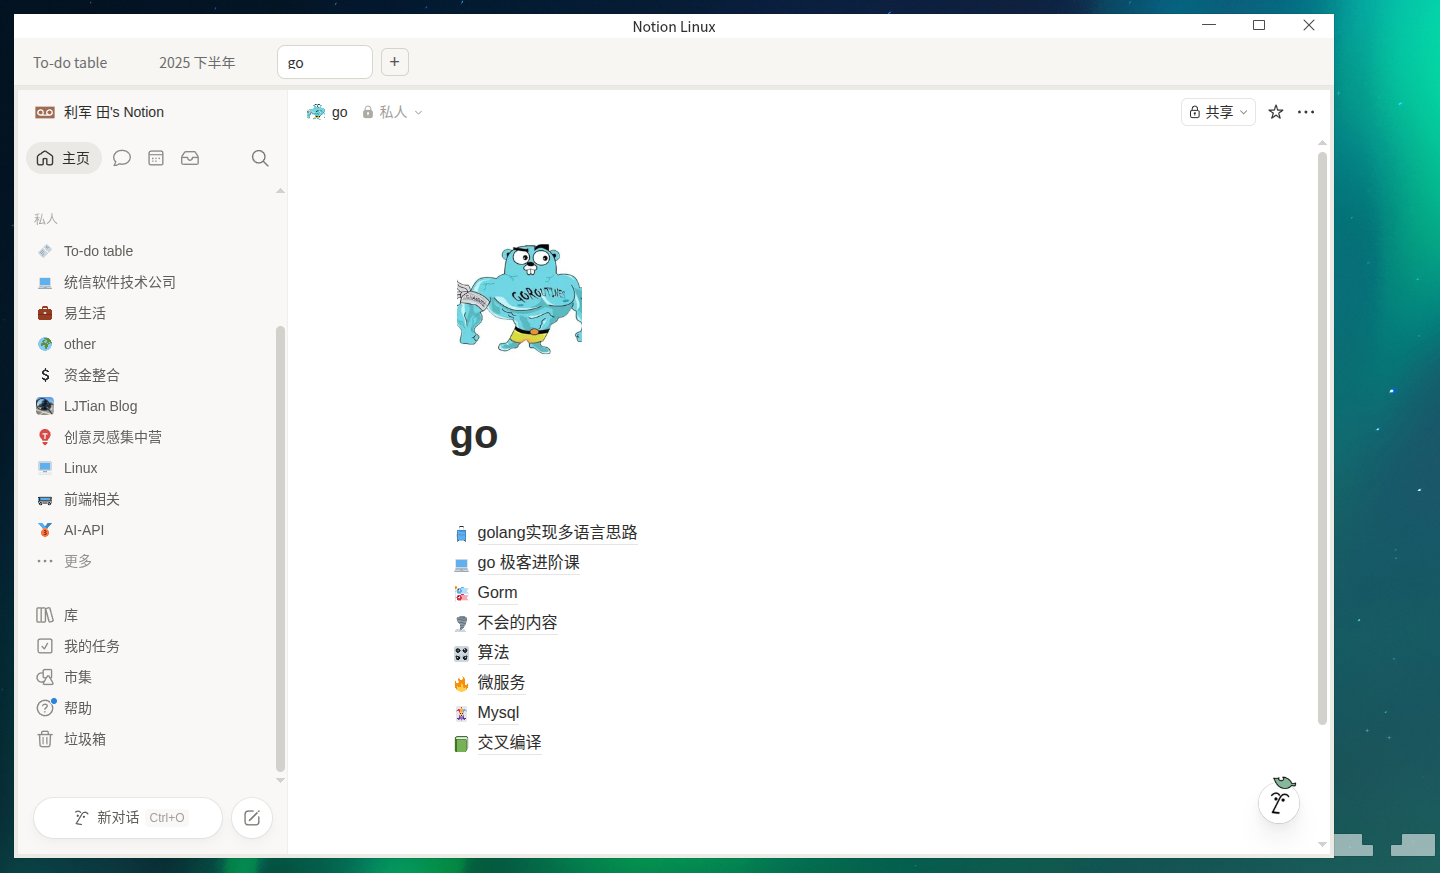
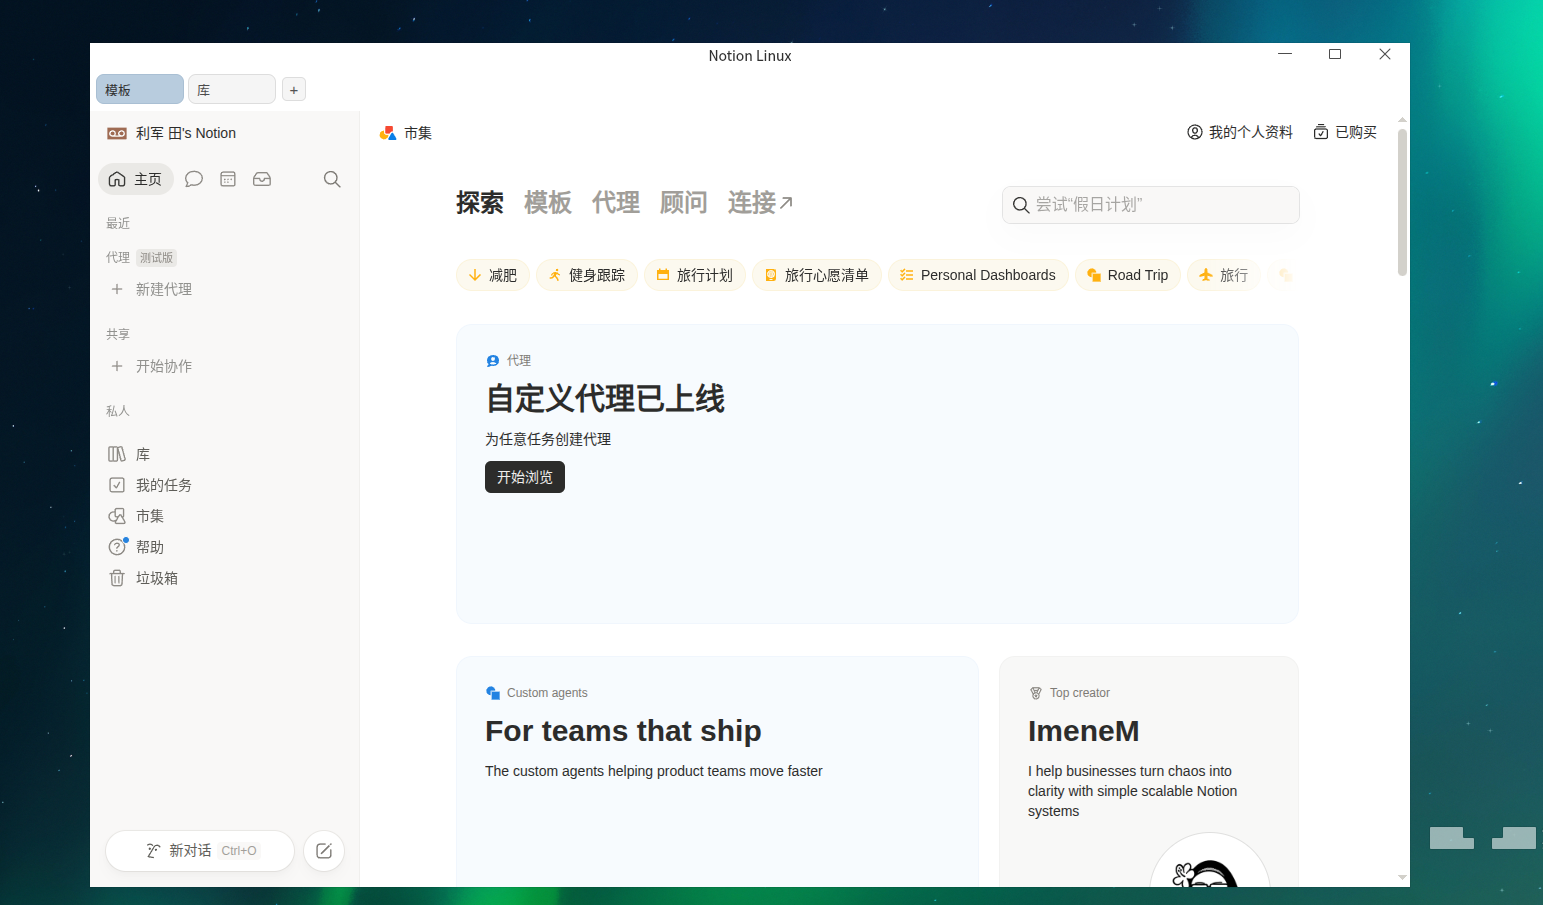
美化了一下，之前太丑了。自己都接受不了

diff --git a/src/renderer/styles.css b/src/renderer/styles.css
@@ -1,12 +1,16 @@
 :root {
-  --bg: #f7f6f3;
-  --line: #e8e6e3;
+  --tabbar-height: 44px;
+  --bg: #ffffff;
+  --line: transparent;
   --text: #2f2f2f;
-  --muted: #6b6b6b;
-  --hover: #efede9;
-  --active-border: #d9d5cf;
-  --content-padding: 4px;
-  --content-radius: 8px;
+  --muted: #4c4c4c;
+  --hover: #efefef;
+  --tab-bg: #f5f5f5;
+  --tab-border: #dddddd;
+  --active-bg: #b8ccde;
+  --active-border: #a9bfd3;
+  --content-padding: 0px;
+  --content-radius: 0px;
 }
 
 * {
@@ -23,20 +27,20 @@ body {
 }
 
 .tabbar {
-  height: 48px;
+  height: var(--tabbar-height);
   display: flex;
   align-items: center;
   background: var(--bg);
-  border-bottom: 1px solid var(--line);
-  padding: 0 8px;
-  gap: 8px;
+  border-bottom: 0;
+  padding: 0 6px;
+  gap: 6px;
   -webkit-app-region: drag;
 }
 
 .tabs {
   display: flex;
   align-items: center;
-  gap: 6px;
+  gap: 4px;
   min-width: 0;
   flex: 0 1 auto;
   overflow: hidden;
@@ -48,28 +52,29 @@ body {
 }
 
 .tab {
-  min-width: 96px;
-  max-width: 160px;
-  height: 34px;
+  min-width: 88px;
+  max-width: 140px;
+  height: 30px;
   display: inline-flex;
   align-items: center;
-  gap: 8px;
-  padding: 0 10px;
+  gap: 6px;
+  padding: 0 8px;
   border-radius: 8px;
-  border: 1px solid transparent;
+  border: 1px solid var(--tab-border);
   color: var(--muted);
-  background: transparent;
+  background: var(--tab-bg);
   cursor: pointer;
   -webkit-app-region: no-drag;
 }
 
 .tab:hover {
   background: var(--hover);
+  border-color: #d4d4d4;
 }
 
 .tab.active {
   color: var(--text);
-  background: #fff;
+  background: var(--active-bg);
   border-color: var(--active-border);
 }
 
@@ -79,13 +84,14 @@ body {
   white-space: nowrap;
   overflow: hidden;
   text-overflow: ellipsis;
-  font-size: 14px;
+  font-size: 13px;
+  font-weight: 500;
   line-height: 1;
 }
 
 .tab-close {
-  width: 16px;
-  height: 16px;
+  width: 14px;
+  height: 14px;
   border: 0;
   border-radius: 50%;
   background: transparent;
@@ -95,7 +101,7 @@ body {
   justify-content: center;
   padding: 0;
   line-height: 1;
-  font-size: 12px;
+  font-size: 11px;
   cursor: pointer;
   opacity: 0;
   visibility: hidden;
@@ -109,36 +115,40 @@ body {
 
 .tab:hover .tab-close,
 .tab.active:hover .tab-close {
-  background: #f0efec;
+  background: #e9e9e9;
 }
 
 .new-tab {
-  width: 28px;
-  height: 28px;
-  border: 1px solid #d7d3cc;
-  border-radius: 6px;
-  background: transparent;
+  width: 24px;
+  height: 24px;
+  border: 1px solid var(--tab-border);
+  border-radius: 5px;
+  background: var(--tab-bg);
   display: inline-flex;
   align-items: center;
   justify-content: center;
   color: #525252;
-  font-size: 18px;
+  font-size: 15px;
   line-height: 1;
   cursor: pointer;
   -webkit-app-region: no-drag;
+}
+
+.new-tab:hover {
+  background: var(--hover);
 }
 
 .quick-new-tab {
   position: fixed;
   right: 16px;
   bottom: 16px;
-  width: 34px;
-  height: 34px;
+  width: 30px;
+  height: 30px;
   border: 1px solid #d7d3cc;
   border-radius: 50%;
   background: #ffffff;
   color: #4f4f4f;
-  font-size: 20px;
+  font-size: 16px;
   line-height: 1;
   display: inline-flex;
   align-items: center;
@@ -149,34 +159,5 @@ body {
 }
 
 .content-corner-mask {
-  position: fixed;
-  width: var(--content-radius);
-  height: var(--content-radius);
-  background: #eceae5;
-  z-index: 15;
-  pointer-events: none;
-}
-
-.content-corner-mask.top-left {
-  left: var(--content-padding);
-  top: calc(48px + var(--content-padding));
-  border-bottom-right-radius: var(--content-radius);
-}
-
-.content-corner-mask.top-right {
-  right: var(--content-padding);
-  top: calc(48px + var(--content-padding));
-  border-bottom-left-radius: var(--content-radius);
-}
-
-.content-corner-mask.bottom-left {
-  left: var(--content-padding);
-  bottom: var(--content-padding);
-  border-top-right-radius: var(--content-radius);
-}
-
-.content-corner-mask.bottom-right {
-  right: var(--content-padding);
-  bottom: var(--content-padding);
-  border-top-left-radius: var(--content-radius);
+  display: none;
 }

diff --git a/src/main.js b/src/main.js
@@ -3,8 +3,8 @@ const fs = require("fs");
 const { app, BrowserWindow, BrowserView, Menu, Tray, nativeImage, ipcMain } = require("electron");
 
 const START_URL = "https://www.notion.com";
-const TAB_BAR_HEIGHT = 48;
-const CONTENT_PADDING = 4;
+const TAB_BAR_HEIGHT = 44;
+const CONTENT_PADDING = 0;
 const MIN_TAB_WIDTH = 120;
 const MAX_TAB_WIDTH = 220;
 
@@ -16,6 +16,7 @@ let mainWindow = null;
 let tray = null;
 let activeTabId = null;
 let tabSeq = 0;
+let isQuitting = false;
 const tabs = new Map();
 
 function normalizeTabTitle(rawTitle) {
@@ -164,6 +165,12 @@ function createMainWindow() {
   });
 
   mainWindow.loadFile(path.join(__dirname, "renderer/index.html"));
+  mainWindow.on("close", (event) => {
+    if (!isQuitting) {
+      event.preventDefault();
+      mainWindow.hide();
+    }
+  });
   mainWindow.on("resize", updateViewBounds);
   mainWindow.on("closed", () => {
     mainWindow = null;
@@ -215,7 +222,10 @@ function createTray() {
       { type: "separator" },
       {
         label: "退出",
-        click: () => app.quit()
+        click: () => {
+          isQuitting = true;
+          app.quit();
+        }
       }
     ])
   );
@@ -246,5 +256,5 @@ app.whenReady().then(() => {
 });
 
 app.on("window-all-closed", () => {
-  if (process.platform !== "darwin") app.quit();
+  if (isQuitting && process.platform !== "darwin") app.quit();
 });
